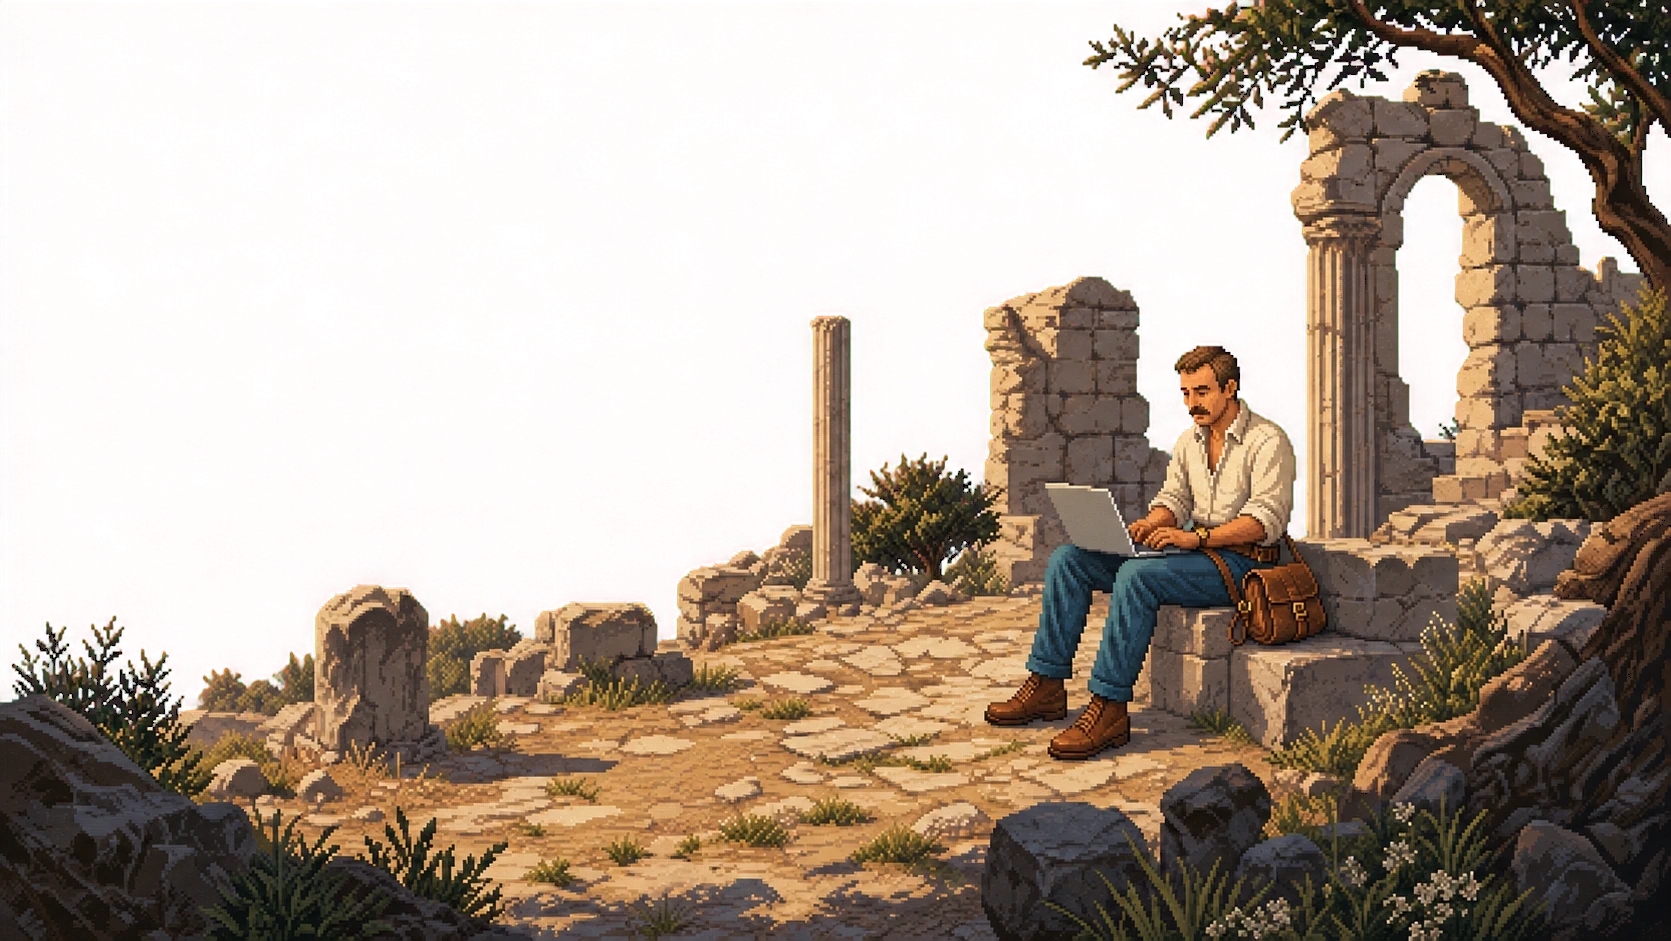
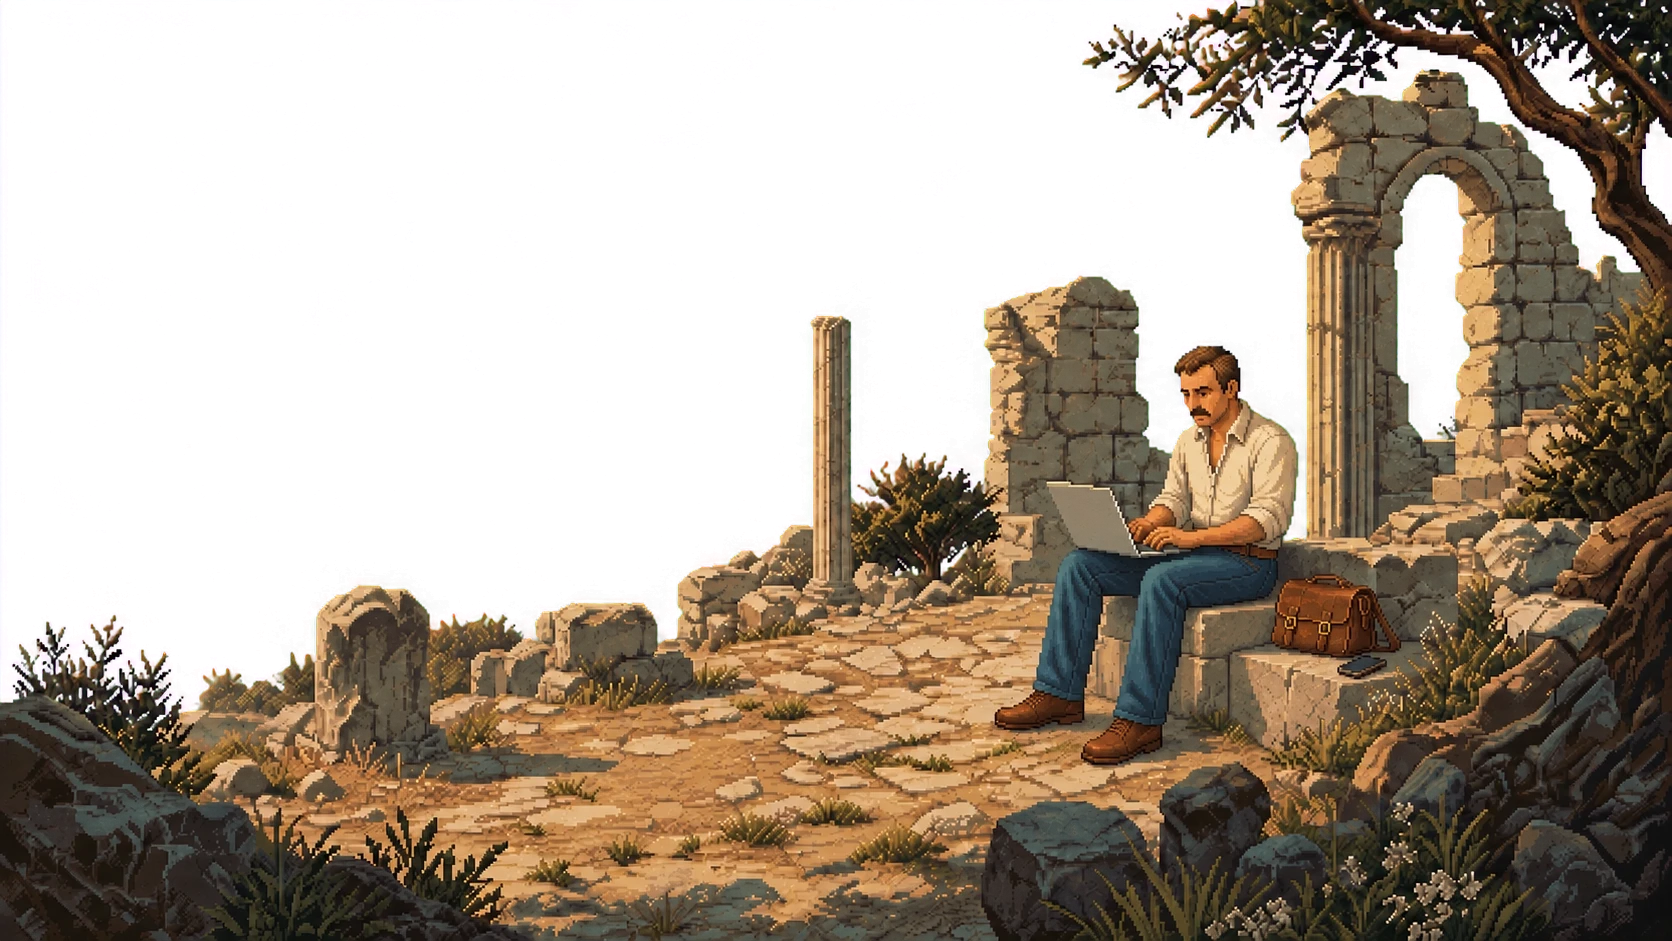
fix: improved foreground img

Changed region(s): [[0.0, 0.0, 1.0, 1.0], [0.9958, 0.2157, 1.0, 0.2465], [0.5601, 0.9862, 0.5913, 1.0]]

diff --git a/index.html b/index.html
@@ -53,8 +53,8 @@
         <p class="intro__role">Software Engineer</p>
         <h1 id="page-title">Antonio<br />Colagreco</h1>
         <p class="intro__description">
-          I build web applications with Node.js, React and TypeScript, as well as distributed
-          systems powered by Apache Kafka.
+          I build web applications with Node.js, React and TypeScript.
+          I love to travel, to  explore, and discover.
         </p>
         <a class="intro__email" href="mailto:antonio@colagreco.dev">
           antonio@colagreco.dev
